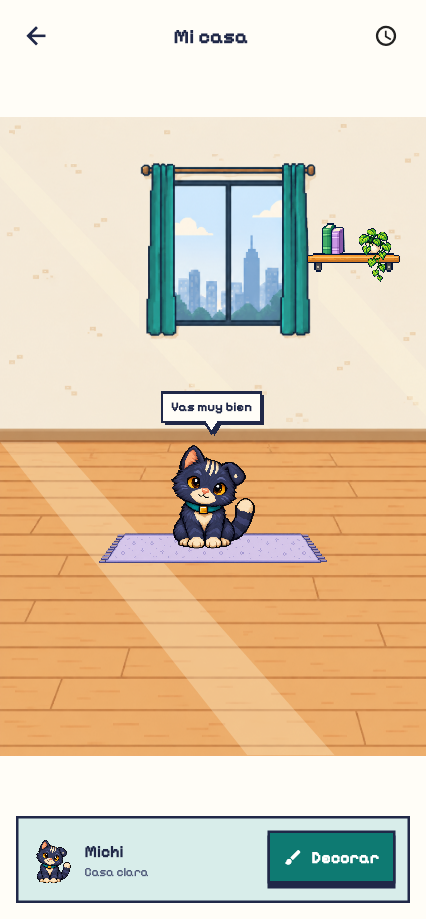
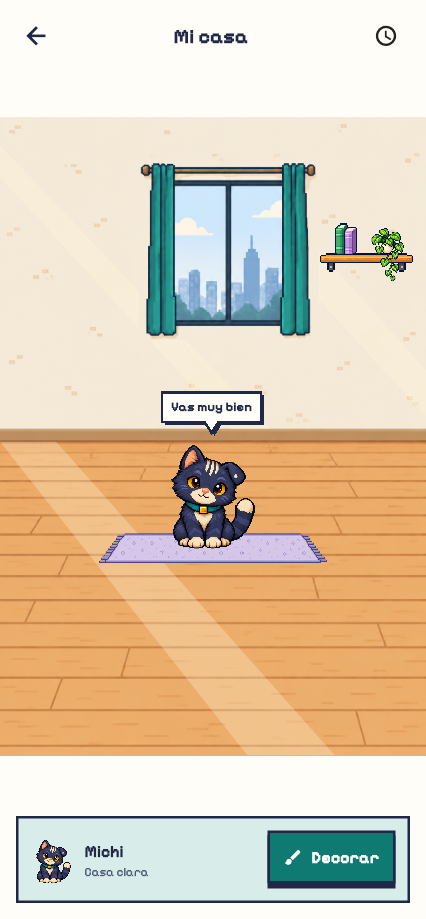
fix: keep room props and furniture from burying or hiding each other
- Stand the savings jar on the bookcase cubby's shelf floor (.598, where
  the books stand) instead of sinking it into the shelf's front lip, and
  raise the cubby's drop target to match.
- Move the pet bed out from behind the rattan chair when a cabinet brings
  the chair forward: to the cat's right when that is free, otherwise onto
  the rug in front of the chair.
- With the bookcase and no sofa, keep the side table or pouf on the right
  rather than tucked straight behind the chair.
- Shift the wall shelf in the right-hand wall slot clear of the curtain.

Re-recorded the affected goldens; added the placement audit sheet.

Changed region(s): [[0.7019, 0.2437, 0.9765, 0.3047]]

diff --git a/lib/widgets/room_scene.dart b/lib/widgets/room_scene.dart
@@ -151,11 +151,12 @@ class RoomScene extends StatelessWidget {
               final cabinet = itemFrame(RoomSlot.floorCabinet, supportId);
               final height = cabinet.height;
               if (supportId == RoomDecorAssets.slimBookcaseId) {
-                // The jar rests inside the open middle shelf; the plant
-                // stands on the top board. Both are separate movable sprites.
+                // The left spot is the open middle cubby, whose shelf floor
+                // is at .598; the right one is the top board. Both are
+                // separate movable sprites.
                 final bottom =
                     cabinet.top +
-                    height * (slot == RoomSlot.cabinetTop ? .69 : .20);
+                    height * (slot == RoomSlot.cabinetTop ? .61 : .20);
                 return Rect.fromLTWH(
                   cabinet.center.dx - height * .20,
                   bottom - height * .16,
@@ -280,14 +281,6 @@ class RoomScene extends StatelessWidget {
                 height,
               );
             }
-            if (itemId == RoomDecorAssets.petBedId) {
-              return Rect.fromLTWH(
-                catFrame.center.dx - catWidth * .85 - spot.width / 2,
-                catPaws - catWidth * .15 - spot.height,
-                spot.width,
-                spot.height,
-              );
-            }
             final cabinetId = placements[RoomSlot.floorCabinet];
             final hasCabinet =
                 cabinetId != null && cabinetId != RoomDecorAssets.clearedId;
@@ -296,6 +289,41 @@ class RoomScene extends StatelessWidget {
             );
             final hasLeftChair =
                 placements[RoomSlot.floorLeft] == RoomDecorAssets.rattanChairId;
+            // The bookcase pushes the chair out to .32, where a table or pouf
+            // tucked beside it would stand right behind it; they keep their
+            // own place on the right instead.
+            final besideChair =
+                hasLeftChair &&
+                !hasSofa &&
+                cabinetId != RoomDecorAssets.slimBookcaseId;
+            if (itemId == RoomDecorAssets.petBedId) {
+              // Beside the cat on the left. A cabinet brings the chair forward
+              // (depth .36), where it hid the bed; then the bed takes the cat's
+              // right when nothing stands there, or comes forward onto the rug
+              // in front of the chair.
+              final rightItem = placements[RoomSlot.floorRight];
+              final rightFree =
+                  rightItem == null ||
+                  rightItem == RoomDecorAssets.clearedId ||
+                  (besideChair &&
+                      (rightItem == RoomDecorAssets.roundSideTableId ||
+                          rightItem == RoomDecorAssets.terracottaPoufId));
+              final chairInFront = hasLeftChair && hasCabinet;
+              final side = chairInFront && rightFree ? 1 : -1;
+              final forward = chairInFront && !rightFree ? catWidth * .30 : 0;
+              return Rect.fromLTWH(
+                catFrame.center.dx + side * catWidth * .85 - spot.width / 2,
+                catPaws - catWidth * .15 + forward - spot.height,
+                spot.width,
+                spot.height,
+              );
+            }
+            if (slot == RoomSlot.wallCenter &&
+                itemId == RoomDecorAssets.wallShelfId) {
+              // A shelf is far wider than a clock or frame; centred on the
+              // slot its left end ran into the window's right curtain.
+              return spot.shift(Offset(background.width * .03, 0));
+            }
             if (slot == RoomSlot.floorCabinet &&
                 itemId == RoomDecorAssets.slimBookcaseId) {
               return at(isPanoramic ? .15 : .18, .09);
@@ -320,7 +348,7 @@ class RoomScene extends StatelessWidget {
                   _ => spot,
                 };
               }
-              if (hasLeftChair) {
+              if (besideChair) {
                 final nearChair = hasCabinet ? .31 : .38;
                 if (itemId == RoomDecorAssets.roundSideTableId) {
                   return at(nearChair, hasCabinet ? .28 : .10);
@@ -378,7 +406,14 @@ class RoomScene extends StatelessWidget {
                     slot == RoomSlot.wallShelfTopLeft ||
                     slot == RoomSlot.wallShelfTopRight) &&
                 (itemId == RoomDecorAssets.shelfBooksId ||
-                    itemId == 'item-01')) {
+                    itemId == 'item-01' ||
+                    // In the bookcase cubby the jar stands on the same
+                    // shelf floor as the books; the generic tabletop drop
+                    // buried its base in the shelf's front lip.
+                    (itemId == RoomDecorAssets.savingsJarId &&
+                        slot == RoomSlot.cabinetTop &&
+                        placements[RoomSlot.floorCabinet] ==
+                            RoomDecorAssets.slimBookcaseId))) {
               late Rect support;
               late String supportId;
               late double contactY;
@@ -441,9 +476,11 @@ class RoomScene extends StatelessWidget {
               }
               // Contact points are measured on the opaque bases, excluding
               // the canvas margins and the lamp's baked grey shadow.
-              final base = itemId == 'item-01'
-                  ? const Offset(-.06, .86)
-                  : const Offset(-.012, .835);
+              final base = switch (itemId) {
+                'item-01' => const Offset(-.06, .86),
+                RoomDecorAssets.savingsJarId => const Offset(0, .835),
+                _ => const Offset(-.012, .835),
+              };
               return Rect.fromLTWH(
                 contactX - height * base.dx - height * 1.5,
                 contactY - height * base.dy,
@@ -491,9 +528,15 @@ class RoomScene extends StatelessWidget {
                     ? RoomDecorAssets.slimBookcaseId
                     : RoomDecorAssets.lowCabinetId,
               );
-              // The plant's pot rests at the centre of the top board.
+              // The plant's pot rests at the centre of the top board, or on
+              // the cubby's shelf floor (.60) when it takes the bookcase's
+              // left spot.
               final supportLine =
-                  spot.bottom - cabinet.height * (isBookcase ? .09 : .12);
+                  spot.bottom -
+                  cabinet.height *
+                      (isBookcase
+                          ? (slot == RoomSlot.cabinetTop ? .01 : .09)
+                          : .12);
               return Rect.fromLTWH(
                 spot.center.dx - height * 1.5,
                 supportLine - height * .47,

diff --git a/test/room_scene_consistency_test.dart b/test/room_scene_consistency_test.dart
@@ -570,9 +570,10 @@ void main() {
       expect((plant.center.dx - table.center.dx).abs(), lessThan(1));
       final jarBase = jar.top + jar.height * (1052 / 1287);
       final plantBase = plant.top + plant.height * (971 / 1191);
+      // On the cubby's shelf floor, beside where the books stand.
       expect(
         (jarBase - bookcase.top) / bookcase.height,
-        inInclusiveRange(.63, .67),
+        inInclusiveRange(.58, .61),
       );
       expect(
         (plantBase - table.top) / table.height,
